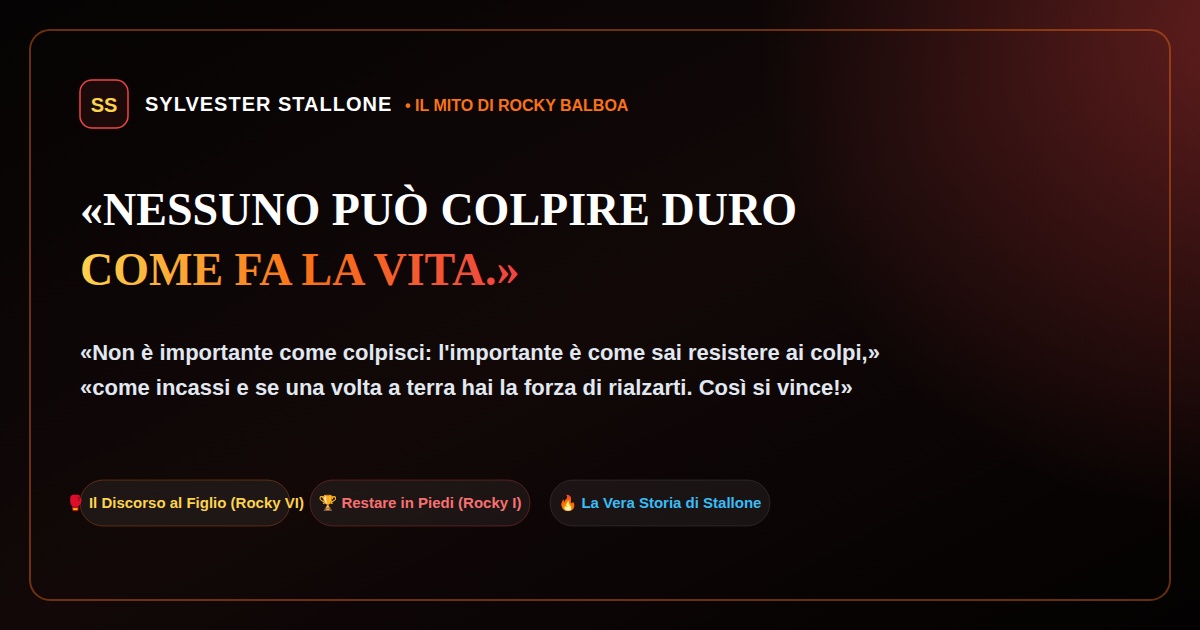
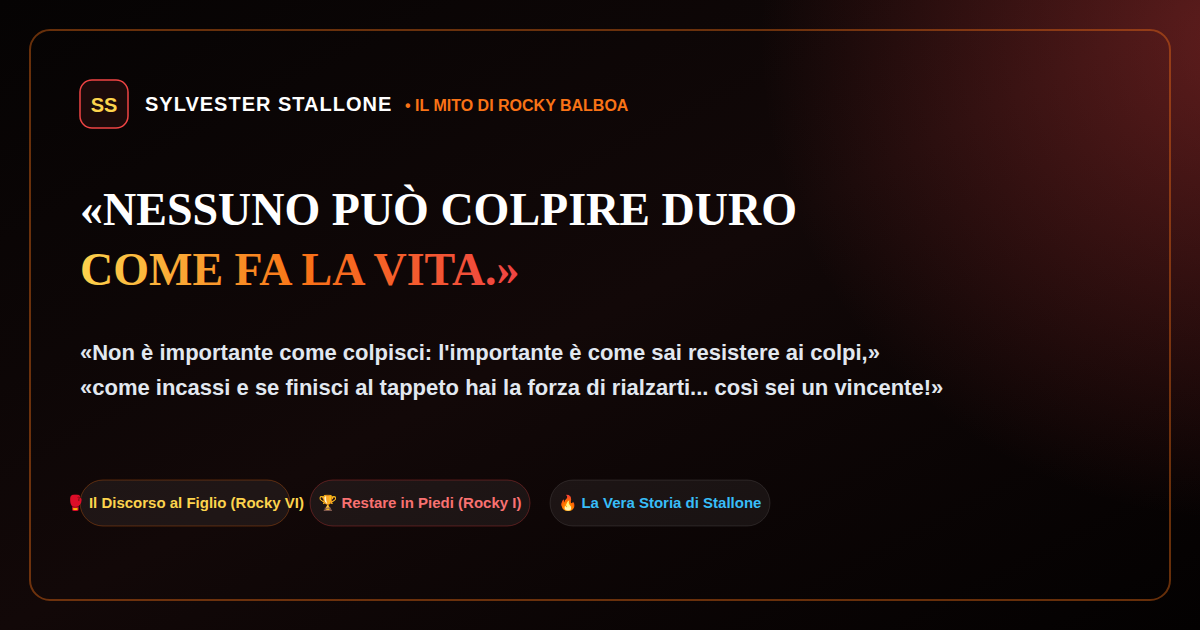
feat(meta): synchronize verbatim Italian quotes in OG cards, metadata and manifest

Changed region(s): [[0.2158, 0.6032, 0.8017, 0.6333]]

diff --git a/index.html b/index.html
@@ -3,11 +3,11 @@
 <head>
   <meta charset="UTF-8" />
   <meta name="viewport" content="width=device-width, initial-scale=1.0, viewport-fit=cover" />
-  <title>Sylvester Stallone & Rocky Balboa | «Nessuno può colpire duro come la vita»</title>
+  <title>Sylvester Stallone &amp; Rocky Balboa | «Nessuno può colpire duro come fa la vita»</title>
   
   <!-- SEO & Metadata -->
-  <meta name="description" content="«Non è importante come colpisci: l'importante è come sai resistere ai colpi, come incassi e se finisci al tappeto hai la forza di rialzarti. Così sei un vincente!» Il portale definitivo sui discorsi storici di Rocky Balboa e sulla leggendaria parabola di Sylvester Stallone." />
-  <meta name="keywords" content="Sylvester Stallone, Rocky Balboa, discorso al figlio, restare in piedi alla quindicesima ripresa, Rocky 1, Rocky 6, motivazione, boxe, resilienza, cinema" />
+  <meta name="description" content="«Né io, né tu, nessuno può colpire duro come fa la vita. Perciò, andando avanti, non è importante come colpisci: l'importante è come sai resistere ai colpi, come incassi e se finisci al tappeto hai la forza di rialzarti... così sei un vincente!» Il portale definitivo sui discorsi storici di Rocky Balboa e sulla leggendaria parabola di Sylvester Stallone." />
+  <meta name="keywords" content="Sylvester Stallone, Rocky Balboa, discorso al figlio, restare in piedi alla quindicesima ripresa, non sono soltanto un bullo di periferia, Gigi Proietti, Massimo Corvo, Ferruccio Amendola, Rocky 1, Rocky Balboa 2006, motivazione, boxe, resilienza, cinema cult ita" />
   <meta name="author" content="Sylvester Stallone Legacy" />
   <meta name="theme-color" content="#060303" />
   <link rel="canonical" href="https://stallone-site.vercel.app/" />
@@ -24,23 +24,23 @@
   <!-- Open Graph / Social Sharing -->
   <meta property="og:type" content="website" />
   <meta property="og:url" content="https://stallone-site.vercel.app/" />
-  <meta property="og:site_name" content="Sylvester Stallone & Rocky Balboa" />
-  <meta property="og:title" content="Sylvester Stallone & Rocky Balboa | Il Discorso della Vita" />
-  <meta property="og:description" content="«Né io, né tu, nessuno può colpire duro come fa la vita. L'importante è come sai resistere ai colpi. Così sei un vincente!»" />
+  <meta property="og:site_name" content="Sylvester Stallone &amp; Rocky Balboa" />
+  <meta property="og:title" content="Sylvester Stallone &amp; Rocky Balboa | «Nessuno può colpire duro come fa la vita»" />
+  <meta property="og:description" content="«Non è importante come colpisci: l'importante è come sai resistere ai colpi, come incassi e se finisci al tappeto hai la forza di rialzarti... così sei un vincente!» I dialoghi cult e la leggendaria parabola di Rocky." />
   <meta property="og:image" content="https://stallone-site.vercel.app/assets/og-image.png" />
   <meta property="og:image:type" content="image/png" />
   <meta property="og:image:width" content="1200" />
   <meta property="og:image:height" content="630" />
-  <meta property="og:image:alt" content="Rocky Balboa - Il Discorso della Vita" />
+  <meta property="og:image:alt" content="Sylvester Stallone &amp; Rocky Balboa // Il Discorso della Vita" />
   <meta property="og:locale" content="it_IT" />
 
   <!-- Twitter Card -->
   <meta name="twitter:card" content="summary_large_image" />
   <meta name="twitter:url" content="https://stallone-site.vercel.app/" />
-  <meta name="twitter:title" content="Sylvester Stallone & Rocky Balboa | Il Discorso della Vita" />
-  <meta name="twitter:description" content="«Non è importante come colpisci: l'importante è come sai resistere ai colpi. Così sei un vincente!»" />
+  <meta name="twitter:title" content="Sylvester Stallone &amp; Rocky Balboa | «Nessuno può colpire duro come fa la vita»" />
+  <meta name="twitter:description" content="«Non è importante come colpisci: l'importante è come sai resistere ai colpi, come incassi e se finisci al tappeto hai la forza di rialzarti... così sei un vincente!»" />
   <meta name="twitter:image" content="https://stallone-site.vercel.app/assets/og-image.png" />
-  <meta name="twitter:image:alt" content="Rocky Balboa - Il Discorso della Vita" />
+  <meta name="twitter:image:alt" content="Sylvester Stallone &amp; Rocky Balboa // Il Discorso della Vita" />
 
   <!-- Fonts Google Preconnect & Swap -->
   <link rel="preconnect" href="https://fonts.googleapis.com" />

diff --git a/sw.js b/sw.js
@@ -1,4 +1,4 @@
-const CACHE_NAME = 'stallone-site-v6';
+const CACHE_NAME = 'stallone-site-v7';
 const STATIC_ASSETS = [
   '/',
   '/index.html',
